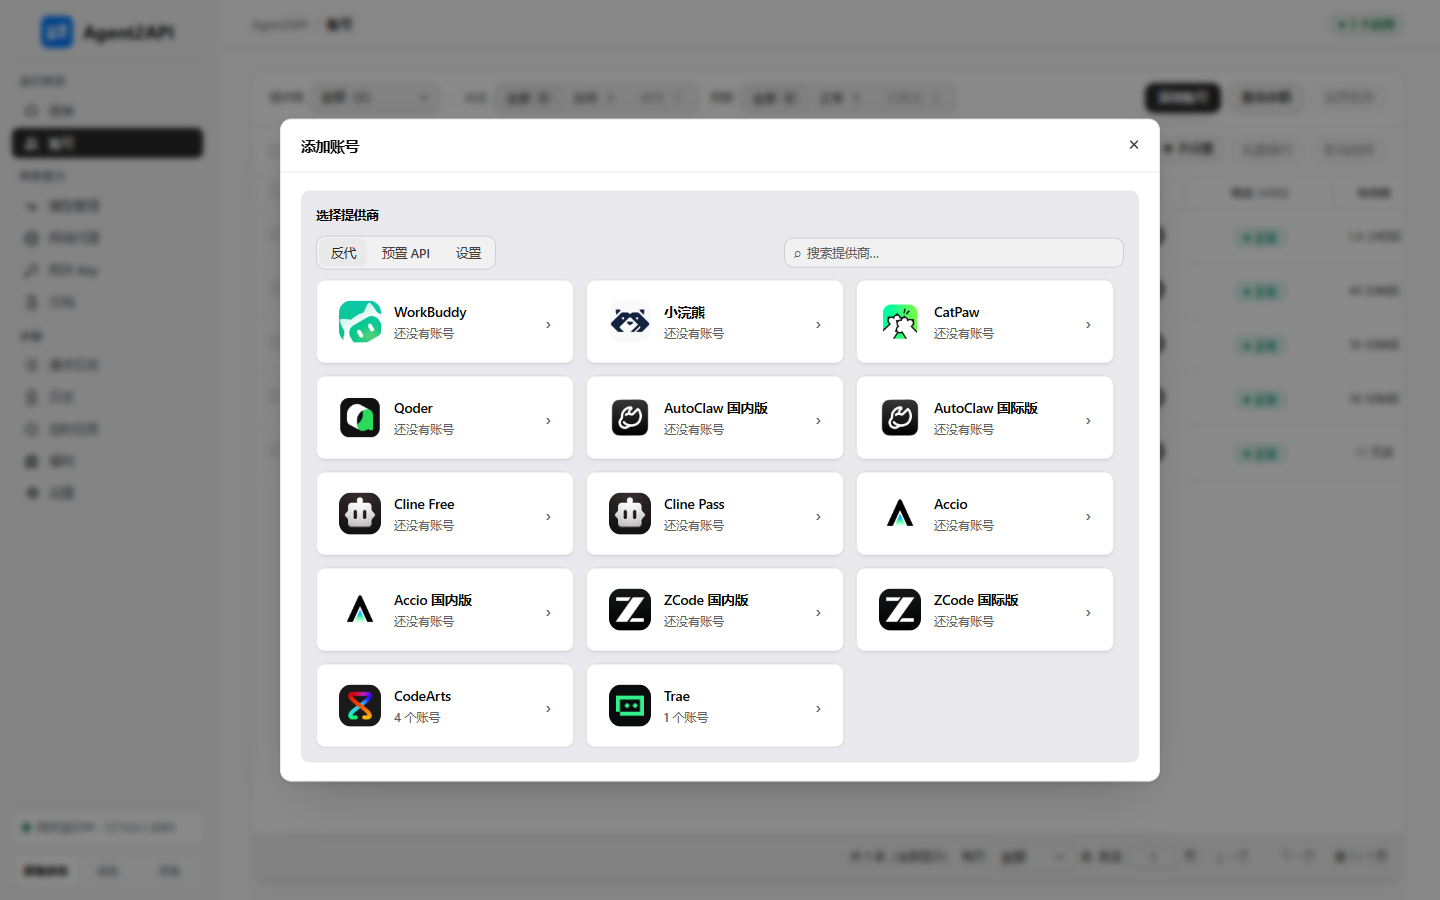
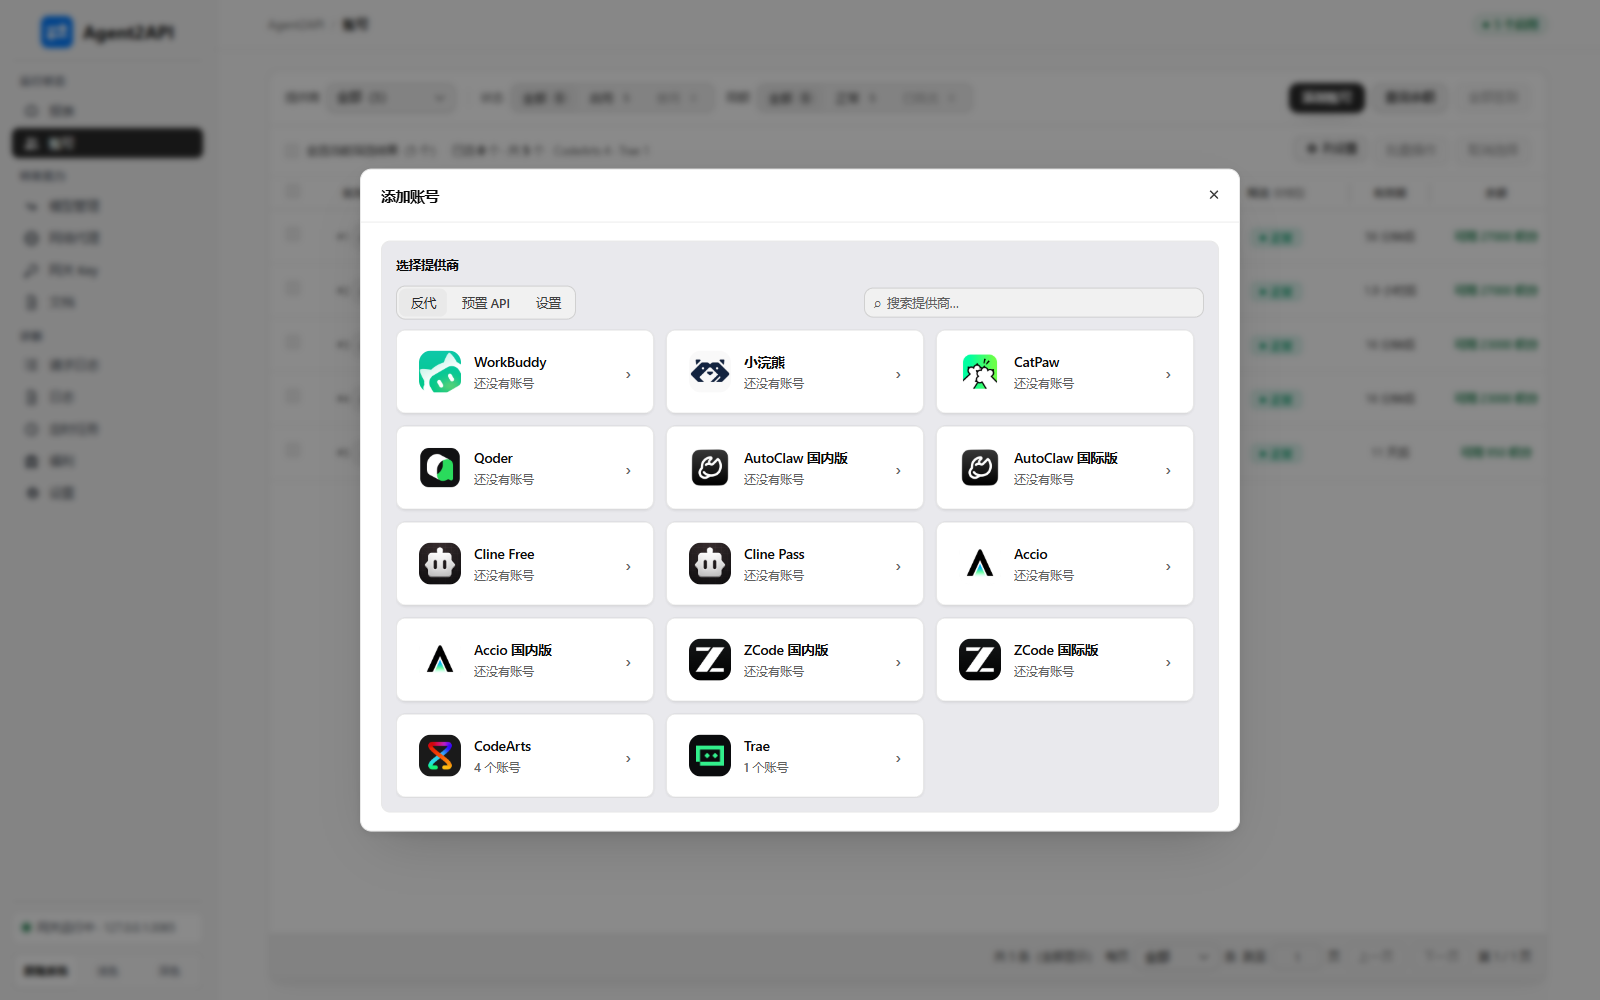
docs: 更新界面截图（v3 配色 + 新功能），新增模型管理 / 福利两节
用户要求：「以上的优化，还有新的功能，截图要更新到 github，注意隐私」。

**7 张截图全部重截**（Playwright + 本机 Edge headless，登录真实面板）：
- 更新 5 张：账号 / 添加账号 / 报表概览 / 报表趋势 / 定时任务；
- **新增 2 张**：`models-rate.png`（模型管理）、`welfare.png`（福利）。

**截图反映本次的新功能**：
- 报表「每日用量」的**曲线**画法（原为折线）；
- 模型管理的**倍率列**（Trae 19 条已录入的倍率，`0.06x` / `1.83x` / `1.50x` …）；
- 模型管理的**自动刷新下拉**（与定时任务是同一份配置）；
- 福利页去重后的形态（「自动领取：已开启 · 每 30 分钟」+「去『定时任务』调整」）。

**★ 隐私处理**（提交到公开仓库前必须过）——脱敏函数只改**文本节点**（不动 DOM 结构，
避免破坏 React），规则覆盖：
- `hid_*` / `hw\d{6,}` 账号标识 → `demo-account`；
- 9 位以上长数字（Trae uid 等）→ `1000000000`；
- 邮箱 → `user@example.com`；`192.168.*` / `10.*` 内网 IP → `127.0.0.1`；
- ISO 时间戳 → `2026-10-10`。

**逐张肉眼核对过**：账号页 5 行全部显示 `demo-account` / `1000000000`；
模型页只有模型 id（无账号信息）；福利页账号名同样是 `demo-account` ✓

**README（中英）**：新增「模型管理」「福利」两节 + 更新报表一节的描述
（补上「曲线 / 柱状两种画法」）。

diff --git a/README.md b/README.md
@@ -181,13 +181,21 @@ services:
 
 ![添加账号：选择提供商与版本，然后走网页登录](./assets/screenshots/add-account.png)
 
+### 模型管理
+
+左栏按提供商导航，右栏是该家的模型清单：逐条启停、按能力位筛选、给模型配别名映射。**「倍率」那一格可以直接改** —— 上游不给倍率的家（例如 Trae 全系）填进去就存下来，并与上游自带的值一起显示：
+
+![模型管理：模型清单、倍率（可手填）、模型映射](./assets/screenshots/models-rate.png)
+
+工具栏右侧还有一个「自动刷新」下拉，决定**多久去上游拉一次模型清单**（它与「定时任务 → 模型目录刷新」是同一份配置，两处改都即时生效）。
+
 ### 报表
 
 统计概览给出总请求数、成功率、Token 总量与 Top 模型，右侧按账号和提供商分别排序；再往下是模型用量与提供商用量两张环形图，以及固定 365 天的活跃热力图：
 
 ![报表概览：统计卡片、Top 账号 / 提供商、模型与提供商用量环形图](./assets/screenshots/report-overview.png)
 
-再往下是趋势区：近 24 小时的**缓存命中率**（左轴，折线）与 **Token 消耗**（右轴，面积）叠在同一张图上，便于判断命中率下滑是流量结构变化还是缓存失效；底部是按天 Token 柱状图，范围随顶部时间窗切换：
+再往下是趋势区：近 24 小时的**缓存命中率**（左轴，折线）与 **Token 消耗**（右轴，面积）叠在同一张图上，便于判断命中率下滑是流量结构变化还是缓存失效；底部的「每日用量」支持**曲线与柱状两种画法**（右侧分段控件切换，曲线是平滑插值），并可切换按 Token / 请求数 / 模型 / 账号四种口径；范围随顶部时间窗切换：
 
 ![报表趋势：活跃热力图、缓存命中率与 Token 消耗双轴趋势](./assets/screenshots/report-trends.png)
 
@@ -196,6 +204,12 @@ services:
 后台任务在「定时任务」页统一管理：开关、执行间隔、上次执行结果与下次触发时间都在这里，也可以绕过间隔手动「立即执行」一次。任务清单本身保存在 `~/.agent2api/config.json` 的 `scheduledTasks` 字段，改动立即生效，不需要重启程序。
 
 ![定时任务页：Trae 每日签到、凭证维护、模型目录刷新等后台任务的开关与间隔](./assets/screenshots/scheduled-tasks.png)
+
+### 福利
+
+按渠道汇总「每个账号当前能领什么」：一个账号一行，列出上游下发的活动与领取状态（探测是只读的、领取是写操作，两者分开）。顶部的自动任务只显示一行只读摘要，**开关与间隔统一在「定时任务」页改**，避免同一份配置两处可改：
+
+![福利页：按账号列出可领活动、领取状态与节流参数](./assets/screenshots/welfare.png)
 
 ---
 

diff --git a/README.en.md b/README.en.md
@@ -172,6 +172,12 @@ When adding an account you pick the provider first, then sign in however that ve
 
 ![Add account: choose provider and edition, then sign in on the web](./assets/screenshots/add-account.png)
 
+### Models
+
+The left rail navigates by provider; the right side lists that provider's models — toggle each one, filter by capability, and attach alias mappings. The **rate cell is editable**: for providers that do not report a rate (all of Trae, for instance), whatever you type is stored and shown alongside upstream values:
+
+![Models page: model list, editable rate, model mappings](./assets/screenshots/models-rate.png)
+
 ### Report
 
 The overview gives total requests, success rate, total tokens and the top model, with rankings by account and by provider beside it; below that come two usage donuts (by model and by provider), then a fixed 365-day activity heatmap:
@@ -187,6 +193,12 @@ Further down are the trends: the last 24 hours of **cache hit rate** (left axis,
 Background tasks are managed on one page: toggle, interval, last result and next fire time all live here, and you can also run one immediately without waiting out the interval. The task list itself is stored in the `scheduledTasks` field of `~/.agent2api/config.json`, and edits take effect immediately — no restart needed.
 
 ![Scheduled tasks page: toggles and intervals for daily check-in (incl. Trae), credential maintenance, model catalog refresh and more](./assets/screenshots/scheduled-tasks.png)
+
+### Welfare
+
+A per-channel summary of what each account can claim right now: one row per account, listing the activities upstream currently offers and their claim status (probing is read-only, claiming is a write — the two are kept apart). The card on top only shows a read-only summary; **switches and intervals live on the Scheduled tasks page** so the same setting is not editable in two places:
+
+![Welfare page: claimable activities, claim status and throttling per account](./assets/screenshots/welfare.png)
 
 ---
 
